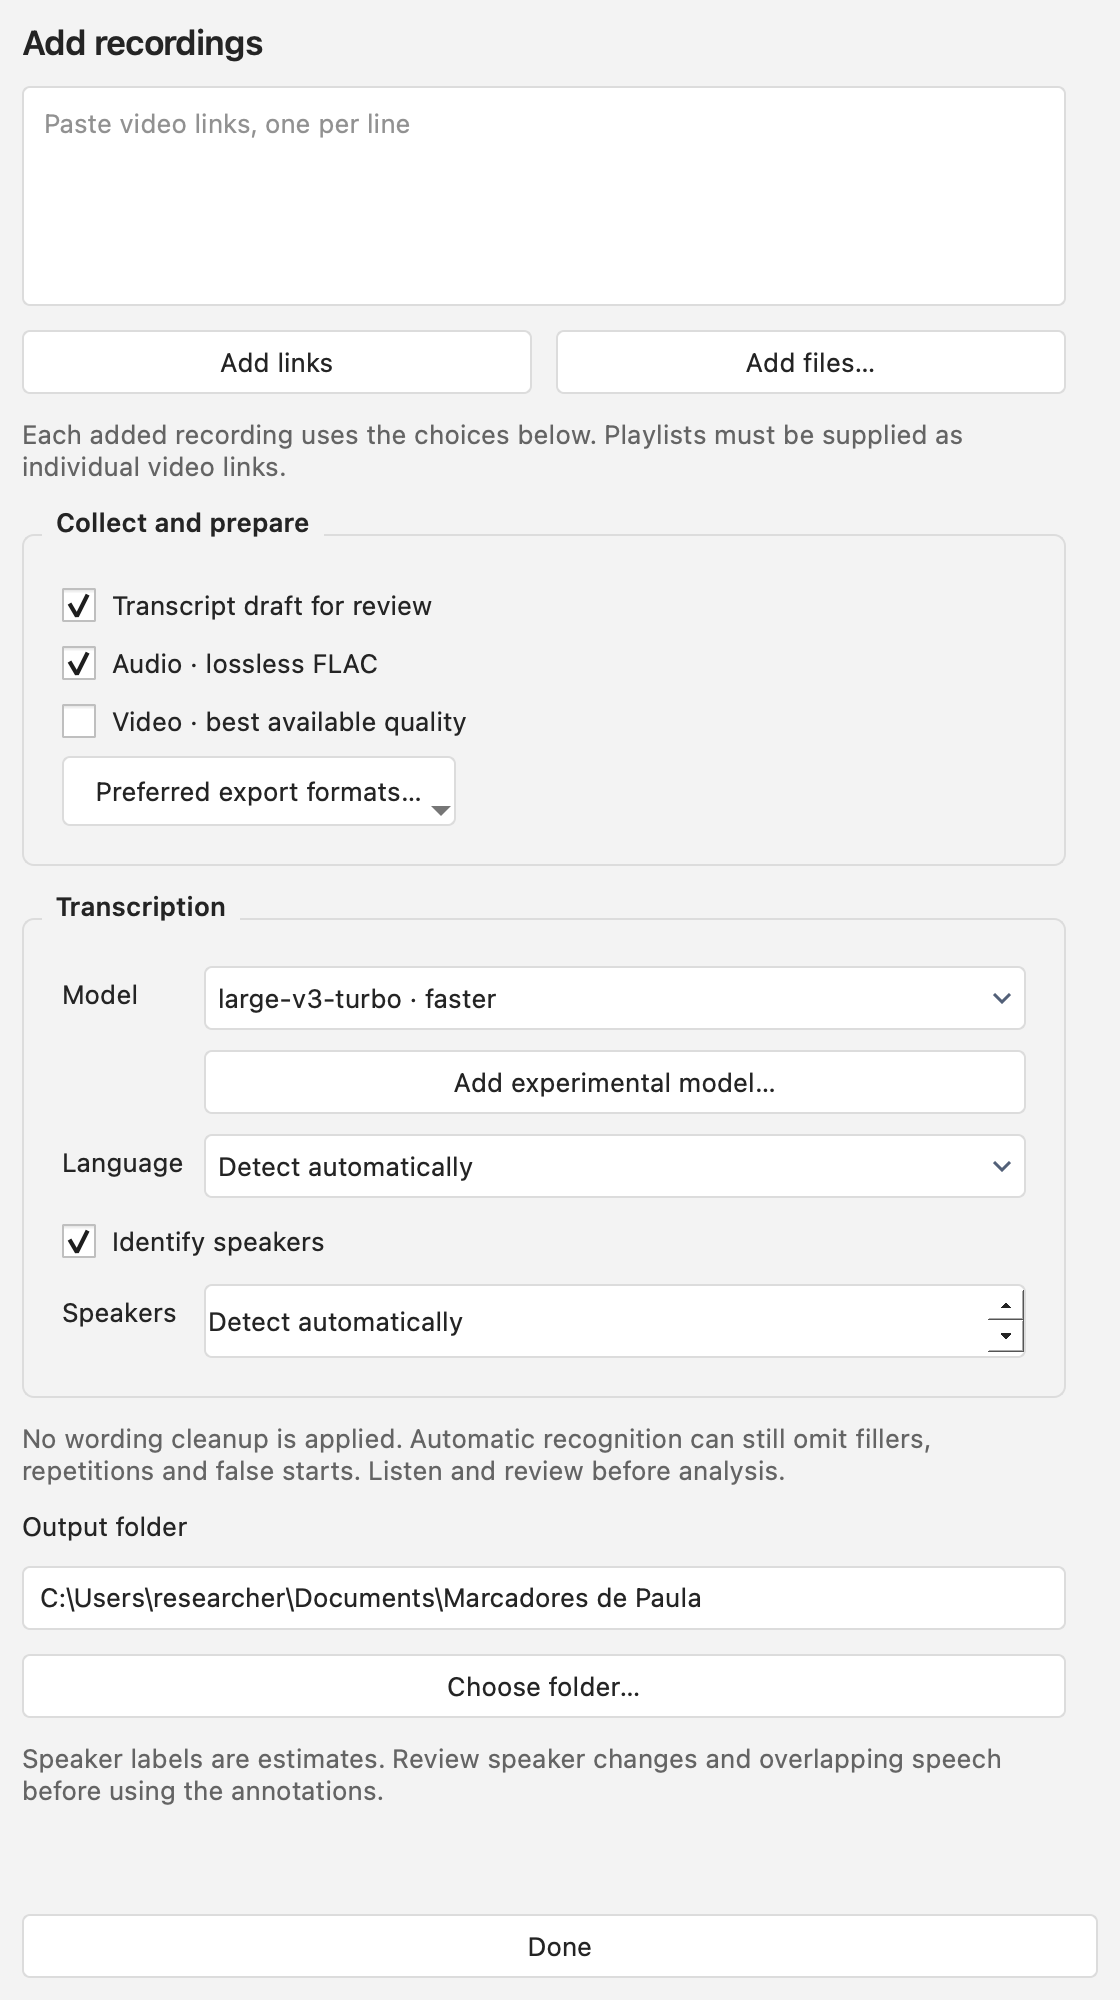
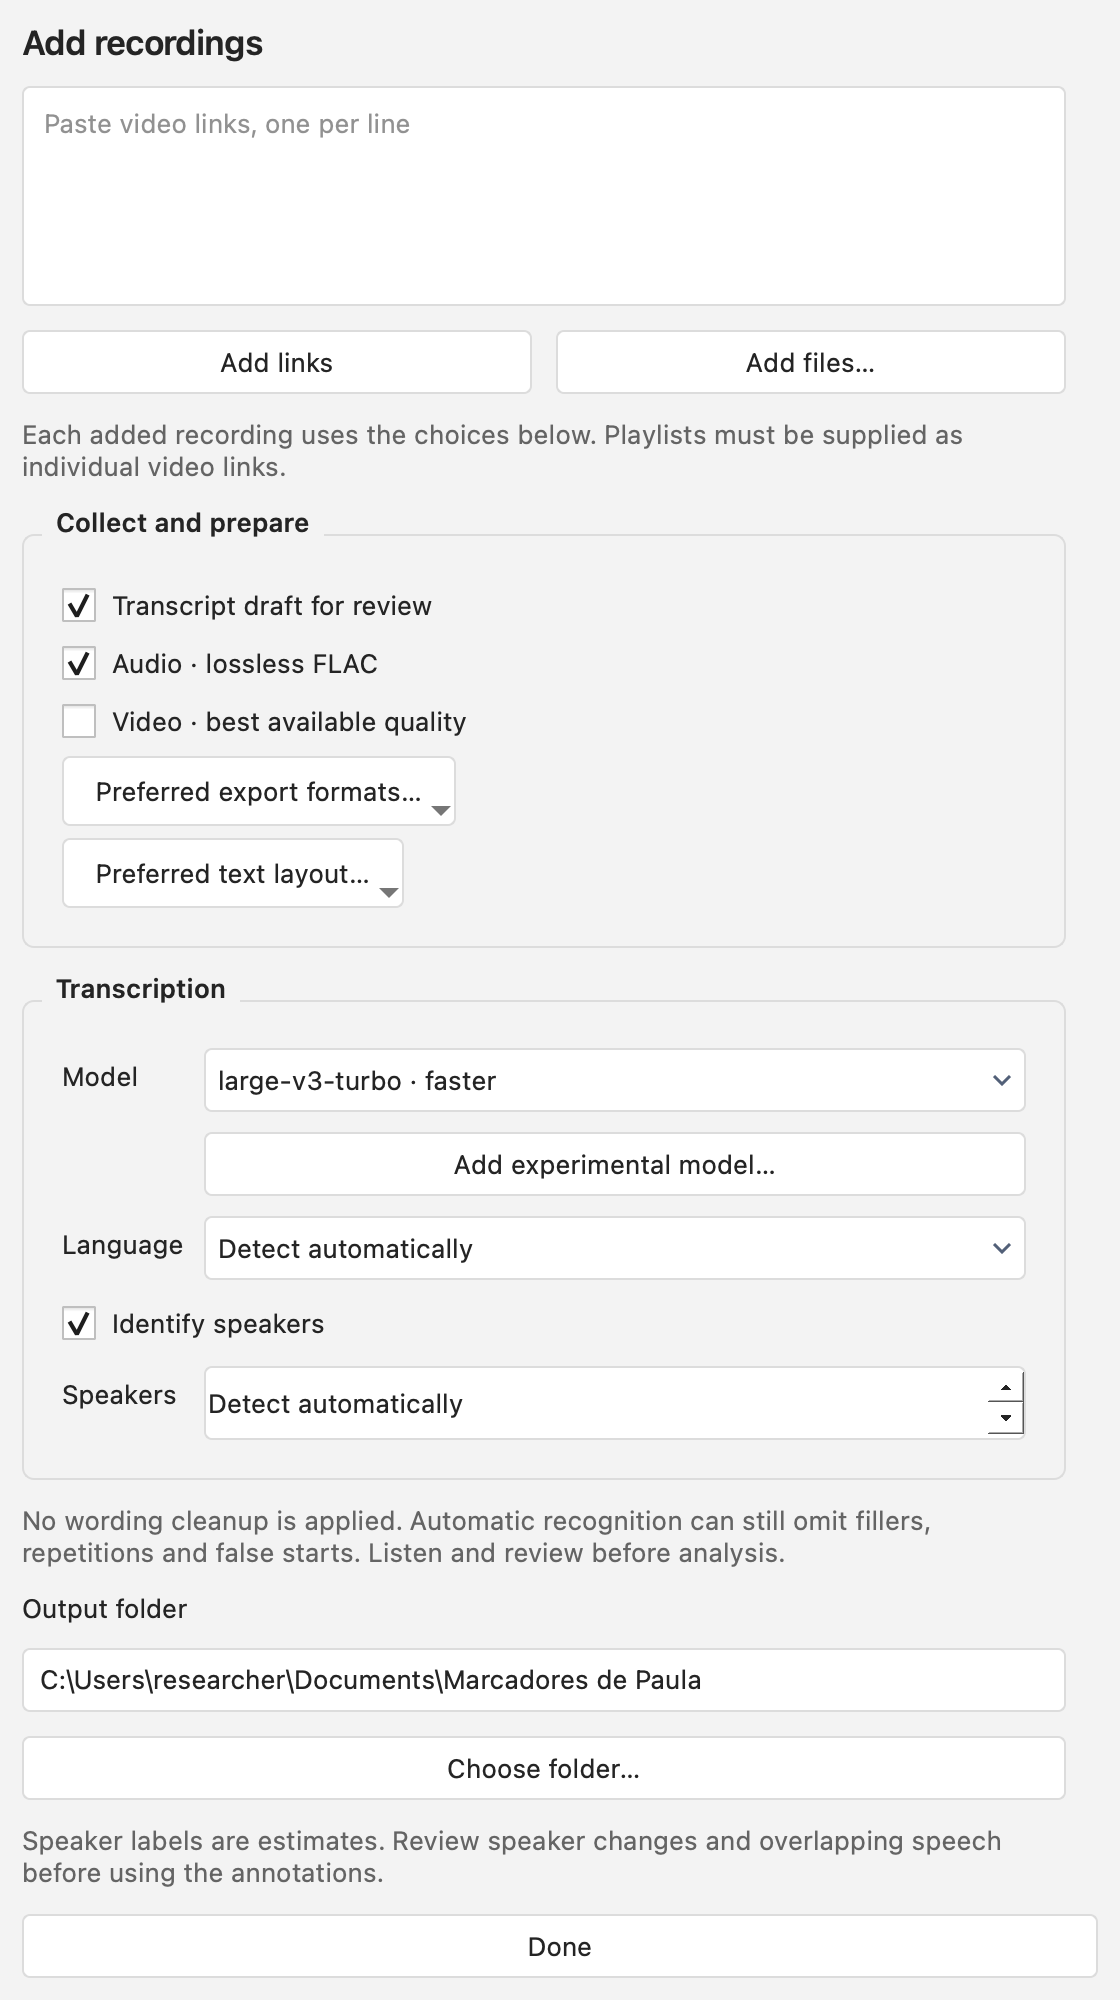
Add a text layout choice to Add recordings and fix DOCX speaker headings

diff --git a/transcript_desk/window.py b/transcript_desk/window.py
@@ -188,6 +188,21 @@ class MainWindow(QMainWindow):
             self.format_menu.addAction(action)
         self.format_button.setMenu(self.format_menu)
         output_layout.addWidget(self.format_button)
+        self.layout_button = QToolButton()
+        self.layout_button.setText("Preferred text layout…")
+        self.layout_button.setPopupMode(QToolButton.InstantPopup)
+        self.layout_menu = QMenu(self)
+        self.layout_actions = {}
+        for key, title, checked in (("timestamps", "Timestamps in TXT / DOCX", True),
+                                    ("grouped", "Group text by speaker", False),
+                                    ("paragraphs", "Keep turn paragraphs", True)):
+            action = QAction(title, self)
+            action.setCheckable(True)
+            action.setChecked(checked)
+            self.layout_actions[key] = action
+            self.layout_menu.addAction(action)
+        self.layout_button.setMenu(self.layout_menu)
+        output_layout.addWidget(self.layout_button)
         left_layout.addWidget(outputs)
         speech = QGroupBox("Transcription")
         form = QFormLayout(speech)
@@ -229,6 +244,7 @@ class MainWindow(QMainWindow):
         self.diarize.toggled.connect(self.speakers.setEnabled)
         self.want_transcript.toggled.connect(speech.setEnabled)
         self.want_transcript.toggled.connect(self.format_button.setEnabled)
+        self.want_transcript.toggled.connect(self.layout_button.setEnabled)
         left_layout.addWidget(speech)
         left_layout.addWidget(label("No wording cleanup is applied. Automatic recognition can still omit fillers, repetitions and false starts. Listen and review before analysis.", True))
         left_layout.addWidget(label("Output folder"))
@@ -593,6 +609,7 @@ class MainWindow(QMainWindow):
                 "transcribe": self.want_transcript.isChecked(), "save_audio": self.want_audio.isChecked(),
                 "save_video": self.want_video.isChecked(), "diarize": self.diarize.isChecked(),
                 "speakers": self.speakers.value(), "formats": self.formats(), "device": self.device,
+                "text_layout": {key: action.isChecked() for key, action in self.layout_actions.items()},
                 "review_before_export": True}
 
     def choose_model_pack(self):

diff --git a/tests/test_workspace_edge_cases.py b/tests/test_workspace_edge_cases.py
@@ -46,7 +46,7 @@ def test_multiturn_document_marks_source_passages():
     document = Document()
     add_document_content(document, result, {"marked_passages": True})
     for segment in result["segments"]:
-        paragraph = next(p for p in document.paragraphs if p.text == segment["text"])
+        paragraph = next(p for p in document.paragraphs if p.text.endswith(segment["text"]))
         assert any(run.font.highlight_color is not None for run in paragraph.runs)
 
 
@@ -125,12 +125,14 @@ def test_bookmark_action_preserves_a_live_text_draft(qtbot, tmp_path, monkeypatc
     assert window.result["bookmarks"][0]["name"] == "Here"
 
 
-def export_dialog(qtbot, saved):
+def export_dialog(qtbot, saved, config=None):
     from transcript_desk.export_dialog import ExportDialog
     parent = QWidget()
     qtbot.addWidget(parent)
     parent.result = source()
     parent.settings = SimpleNamespace(value=lambda name, default: json.dumps(saved))
+    if config is not None:
+        parent.result_job = {"config": config}
     dialog = ExportDialog(parent)
     qtbot.addWidget(dialog)
     return dialog
@@ -150,6 +152,17 @@ def test_saved_export_preset_restores_speaker_filter(qtbot):
     assert dialog.preview.toPlainText() == "Bea\nB second tail"
     assert [name for name, box in dialog.formats.items() if box.isChecked()] == ["TXT"]
     assert not dialog.preview_timer.isActive()
+
+
+@pytest.mark.parametrize("layout, expected", [
+    ({"timestamps": False, "grouped": True, "paragraphs": False}, (False, True, False)),
+    (None, (True, False, True)),
+    ({"timestamps": "no", "grouped": 1}, (True, False, True))])
+def test_recording_text_layout_sets_export_switches(qtbot, layout, expected):
+    dialog = export_dialog(qtbot, {}, {"text_layout": layout})
+    assert (dialog.times.isChecked(), dialog.grouped.isChecked(), dialog.paragraphs.isChecked()) == expected
+    if layout and layout.get("timestamps") is False:
+        assert dialog.preview.toPlainText() == "Ana\nA first end\n\nBea\nB second tail"
 
 
 def test_unknown_saved_speakers_require_an_explicit_selection(qtbot):

diff --git a/transcript_desk/export_options.py b/transcript_desk/export_options.py
@@ -83,12 +83,20 @@ def add_document_content(document, result, options):
                 document.add_paragraph(paragraph)
     else:
         from docx.enum.text import WD_COLOR_INDEX
-        for row, segment in enumerate(result['segments']):
-            title = speaker_name(segment.get('speaker'), result.get('speaker_names', {}))
+        # Same layout as the TXT and the preview: a heading only where the speaker changes.
+        rows = sorted(enumerate(result['segments']), key=lambda item: (item[1]['start'], item[1]['end'], item[0]))
+        previous, paragraph = object(), None
+        for row, segment in rows:
+            if segment.get('speaker') != previous:
+                document.add_heading(speaker_name(segment.get('speaker'), result.get('speaker_names', {})), level=2)
+                paragraph = document.add_paragraph()
+            elif options.get('paragraphs', True):
+                paragraph = document.add_paragraph()
+            else:
+                paragraph.add_run(' ')
+            previous = segment.get('speaker')
             if options.get('timestamps', True):
-                title = timestamp(segment['start'], '.') + '  ' + title
-            document.add_heading(title, level=2)
-            paragraph = document.add_paragraph()
+                paragraph.add_run(f"[{timestamp(segment['start'], '.')} – {timestamp(segment['end'], '.')}] ")
             annotations = [a for a in result.get('annotations', []) if a['status'] != 'needs review' and
                            (a['segment'] == row or any(span['turn_id'] == segment.get('turn_id') for span in a.get('spans', [])))]
             if options.get('marked_passages') and annotations:

diff --git a/tests/test_extended_exports.py b/tests/test_extended_exports.py
@@ -2,6 +2,7 @@ import csv
 import json
 from xml.etree import ElementTree as ET
 
+import pytest
 from docx import Document
 
 from transcript_desk.annotations import create_annotation, create_range_annotation, create_time_annotation, is_current
@@ -22,6 +23,22 @@ def test_untimed_speaker_export_and_filtered_concordance(tmp_path, result):
     assert len(json.loads((tmp_path / 'transcript.json').read_text())['segments']) == 2
     assert len(list(csv.DictReader((tmp_path / 'concordance.csv').open(encoding='utf-8-sig')))) == 1
     assert any('Last question.' in p.text for p in Document(tmp_path / 'transcript.docx').paragraphs)
+
+
+@pytest.mark.parametrize('timestamps, paragraphs', [(False, False), (False, True), (True, True)])
+def test_chronological_docx_follows_text_layout(tmp_path, result, timestamps, paragraphs):
+    result['segments'].insert(2, {'start': 3.5, 'end': 3.9, 'speaker': 'SPEAKER_01', 'text': 'Second answer.'})
+    export_result(result, tmp_path, ['TXT', 'DOCX'], options={
+        'timestamps': timestamps, 'grouped': False, 'paragraphs': paragraphs})
+    body = Document(tmp_path / 'transcript.docx').paragraphs[2:]
+    assert [p.text for p in body if p.style.name.startswith('Heading')] == ['Interviewer', 'Participant', 'Unassigned']
+    parts = []
+    for p in body:
+        if p.style.name.startswith('Heading'):
+            parts.append(('\n\n' if parts else '') + p.text + '\n')
+        else:
+            parts.append(('' if parts[-1].endswith('\n') else '\n\n') + p.text)
+    assert ''.join(parts) + '\n' == (tmp_path / 'transcript.txt').read_text()
 
 
 def test_annotation_tiers_handle_overlap_without_expanding_spans(tmp_path, result):

diff --git a/transcript_desk/workspace_smoke.py b/transcript_desk/workspace_smoke.py
@@ -120,6 +120,20 @@ def run_workspace_check(application, window, report_path):
             export.close()
             export.deleteLater()
             checked('eight transcript exports with filtered annotation layers and counts')
+            for key, action in window.layout_actions.items():
+                action.setChecked(key == 'grouped')
+            window.result_job['config']['text_layout'] = window.options()['text_layout']
+            export = ExportDialog(window)
+            assert (export.times.isChecked(), export.grouped.isChecked(), export.paragraphs.isChecked()) == (False, True, False)
+            export.grouped.setChecked(False)
+            destination = window.workspace.export_to(folder / 'exports-layout', ['TXT', 'DOCX'], export.options())
+            export.deleteLater()
+            from docx import Document
+            headings = [p.text for p in Document(destination / 'transcript.docx').paragraphs if p.style.name.startswith('Heading')]
+            rows = sorted(window.result['segments'], key=lambda s: (s['start'], s['end']))
+            assert len(headings) == sum(i == 0 or s.get('speaker') != rows[i - 1].get('speaker') for i, s in enumerate(rows))
+            assert '00:00' not in (destination / 'transcript.txt').read_text(encoding='utf-8')
+            checked('recording text layout reaches the export switches; DOCX headings at speaker changes')
             window.tabs.setCurrentIndex(0)
             window.workspace.audio.expand.setChecked(True)
             window.workspace.audio.load_waveform()

diff --git a/transcript_desk/export_dialog.py b/transcript_desk/export_dialog.py
@@ -86,8 +86,11 @@ class ExportDialog(QDialog):
         row = QHBoxLayout()
         self.times, self.grouped, self.paragraphs, self.separate = (QCheckBox(label) for label in
             ('Timestamps in TXT / DOCX', 'Group text by speaker', 'Keep turn paragraphs', 'One folder per speaker'))
-        self.times.setChecked(True)
-        self.paragraphs.setChecked(True)
+        layout_choice = (getattr(window, 'result_job', None) or {}).get('config', {}).get('text_layout')
+        layout_choice = layout_choice if isinstance(layout_choice, dict) else {}
+        for key, widget, default in (('timestamps', self.times, True), ('grouped', self.grouped, False),
+                                     ('paragraphs', self.paragraphs, True)):
+            widget.setChecked(layout_choice[key] if type(layout_choice.get(key)) is bool else default)
         for widget in (self.times, self.grouped, self.paragraphs, self.separate):
             row.addWidget(widget)
         layout.addLayout(row)

diff --git a/tests/test_window.py b/tests/test_window.py
@@ -32,6 +32,17 @@ def test_batch_input_deduplicates_and_snapshots_options(qtbot, tmp_path):
     widget.grab().save(str(tmp_path / "batch.png"))
 
 
+def test_text_layout_choice_is_kept_with_each_recording(qtbot, tmp_path):
+    widget = window(qtbot, tmp_path)
+    widget.layout_actions["timestamps"].setChecked(False)
+    widget.layout_actions["grouped"].setChecked(True)
+    widget.urls.setPlainText("https://example.com/one")
+    widget.add_links.click()
+    assert widget.store.jobs[0]["config"]["text_layout"] == {"timestamps": False, "grouped": True, "paragraphs": True}
+    widget.want_transcript.setChecked(False)
+    assert not widget.layout_button.isEnabled()
+
+
 def test_bundled_model_pack_default_preserves_queued_choices(qtbot, tmp_path, monkeypatch):
     import transcript_desk.window as module
     folder = tmp_path / "models/example-pack"

diff --git a/docs/review-workspace.md b/docs/review-workspace.md
@@ -4,7 +4,7 @@ All views, edits and exports use the timed transcript. Each turn has a stable `t
 
 ## Speaker text
 
-The Speaker text tab shows one speaker or all of them. With Group by speaker on, Show timestamps and Keep turn paragraphs can be switched independently; with both off, each speaker's turns run as continuous text in chronological order. Copy text copies the selection, or the whole view when nothing is selected. Go to source turn opens the timed turn for editing and playback. Export this view writes TXT and DOCX with the same layout.
+The Speaker text tab shows one speaker or all of them. With Group by speaker on, everything a speaker said appears under one heading, and speakers follow the order in which they first speak. With it off, the conversation keeps its order and consecutive turns by the same speaker share one heading. In either layout, Show timestamps and Keep turn paragraphs can be switched independently; with both off, the turns under each heading run as continuous text in chronological order. Copy text copies the selection, or the whole view when nothing is selected. Go to source turn opens the timed turn for editing and playback. Export this view writes TXT and DOCX with the same layout.
 
 ## Find and replace
 
@@ -32,7 +32,7 @@ Play interval stops at the end of the interval, or repeats it when Loop is on. C
 
 ## Export
 
-Export…, also Review → Export options… (Ctrl+Shift+E), previews the text and starts from the recording's preferred formats. Speakers, annotation categories and statuses can be selected, and the text can be written as continuous speaker text, with or without timestamps and paragraph breaks, or as one folder per speaker. Timed formats always use the source intervals. Presets save these choices; a speaker preset from another project asks for its speakers to be matched to this one.
+Export…, also Review → Export options… (Ctrl+Shift+E), previews the text and starts from the formats and text layout chosen for the recording in Add recordings. Speakers, annotation categories and statuses can be selected, and the text can be written as continuous speaker text, with or without timestamps and paragraph breaks, or as one folder per speaker. The DOCX has the same layout as the TXT and the preview. Timed formats always use the source intervals. Presets save these choices; a speaker preset from another project asks for its speakers to be matched to this one.
 
 EAF and TextGrid exports can include annotation tiers. Overlapping annotations go to separate tiers, a multi-turn annotation uses each speaker's own passage and interval, and annotations marked for review are left out of the timed tiers. Overlapping turns of one speaker still need EAF or JSON, since a TextGrid tier cannot hold them. The annotated DOCX highlights the selected passages in transcript order and lists the annotation records at the end.
 

diff --git a/README.md b/README.md
@@ -28,7 +28,7 @@ Speaker separation uses the pyannote [speaker-diarization-community-1](https://h
 
 <img src="docs/images/add-recordings.png" alt="The Add recordings panel with the default model" width="280" align="right">
 
-Choose Add recordings, then paste video links (one per line) or select local audio and video files. For each batch, choose what to keep (video, lossless FLAC audio, transcript), the model, the language, whether to identify speakers and how many there are.
+Choose Add recordings, then paste video links (one per line) or select local audio and video files. For each batch, choose what to keep (video, lossless FLAC audio, transcript), the model, the language, whether to identify speakers and how many there are. Preferred export formats… and Preferred text layout… set where the Export dialog starts for those recordings; the layout covers timestamps, grouping by speaker and paragraph breaks in TXT and DOCX.
 
 The default model is large-v3-turbo, a version of Whisper large-v3 whose decoder has 4 layers in place of 32, so it runs faster; the full large-v3 is the other choice. Both can detect the language automatically. The speaker count is detected automatically unless you set it; setting it to 1 skips the speaker model altogether. Start queue processes recordings one after another, and a failed recording does not stop the rest.
 

diff --git a/CHANGELOG.md b/CHANGELOG.md
@@ -2,6 +2,11 @@
 
 From 0.9.0, the Windows installer and the Mac disk image are attached to each [GitHub release](https://github.com/emmachados/marcadores-de-paula/releases), with SHA-256 checksums and the verification records from the builds that produced them. On Windows, install a newer version over an older one; on a Mac, replace the application in Applications. The queue, recording folders and saved reviews are kept.
 
+## Unreleased
+
+- Add recordings has a Preferred text layout… menu next to Preferred export formats…. Its three choices, timestamps, grouping by speaker and paragraph breaks, are kept with each recording and set the Export dialog's switches when it opens.
+- A DOCX exported in conversation order now has a speaker heading only where the speaker changes, with timestamps and paragraph breaks as in the TXT. Earlier versions wrote a heading above every segment, so one speaker's turn could appear under several identical headings, and ignored Keep turn paragraphs.
+
 ## 0.9.1 (25 October 2026)
 
 - TikTok links now download the audio recorded in the clip. Earlier versions took TikTok's separate audio track, which for a post with a song attached is the song, so the transcript did not match the video.
